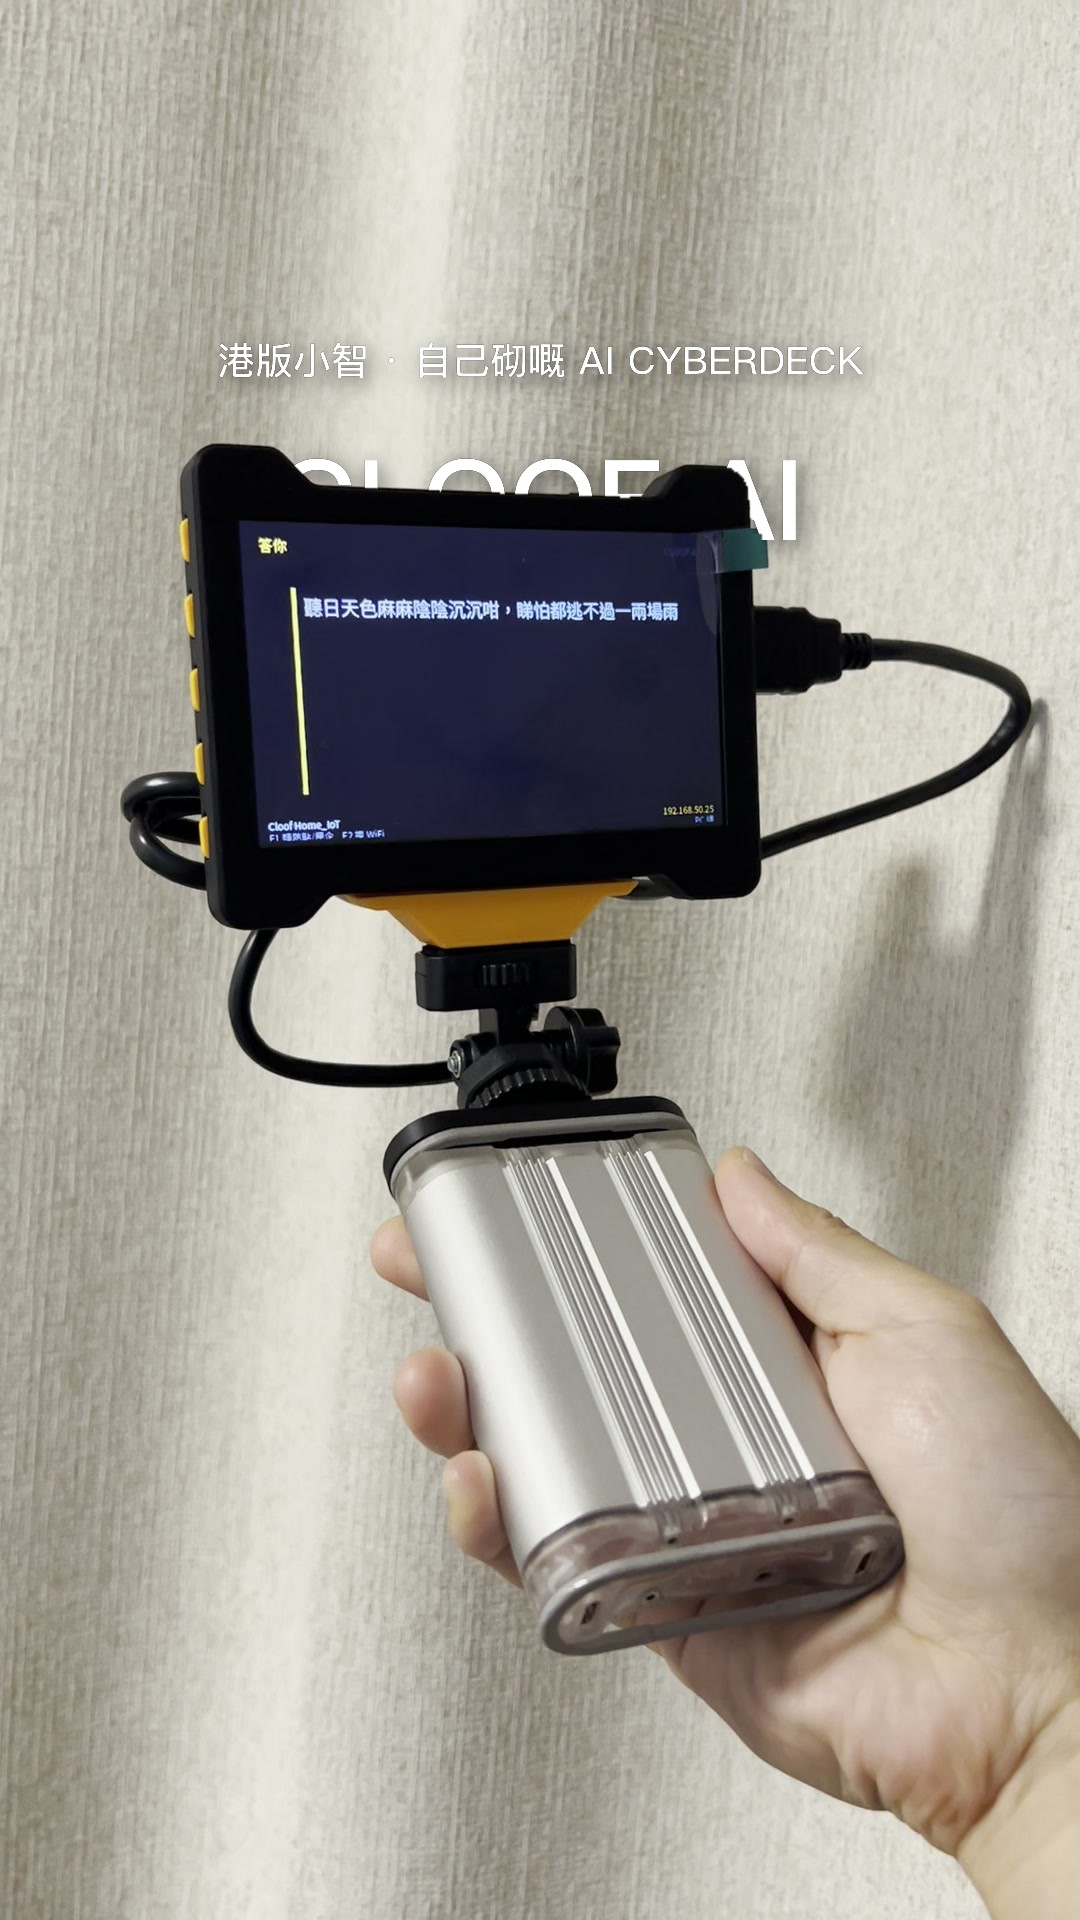
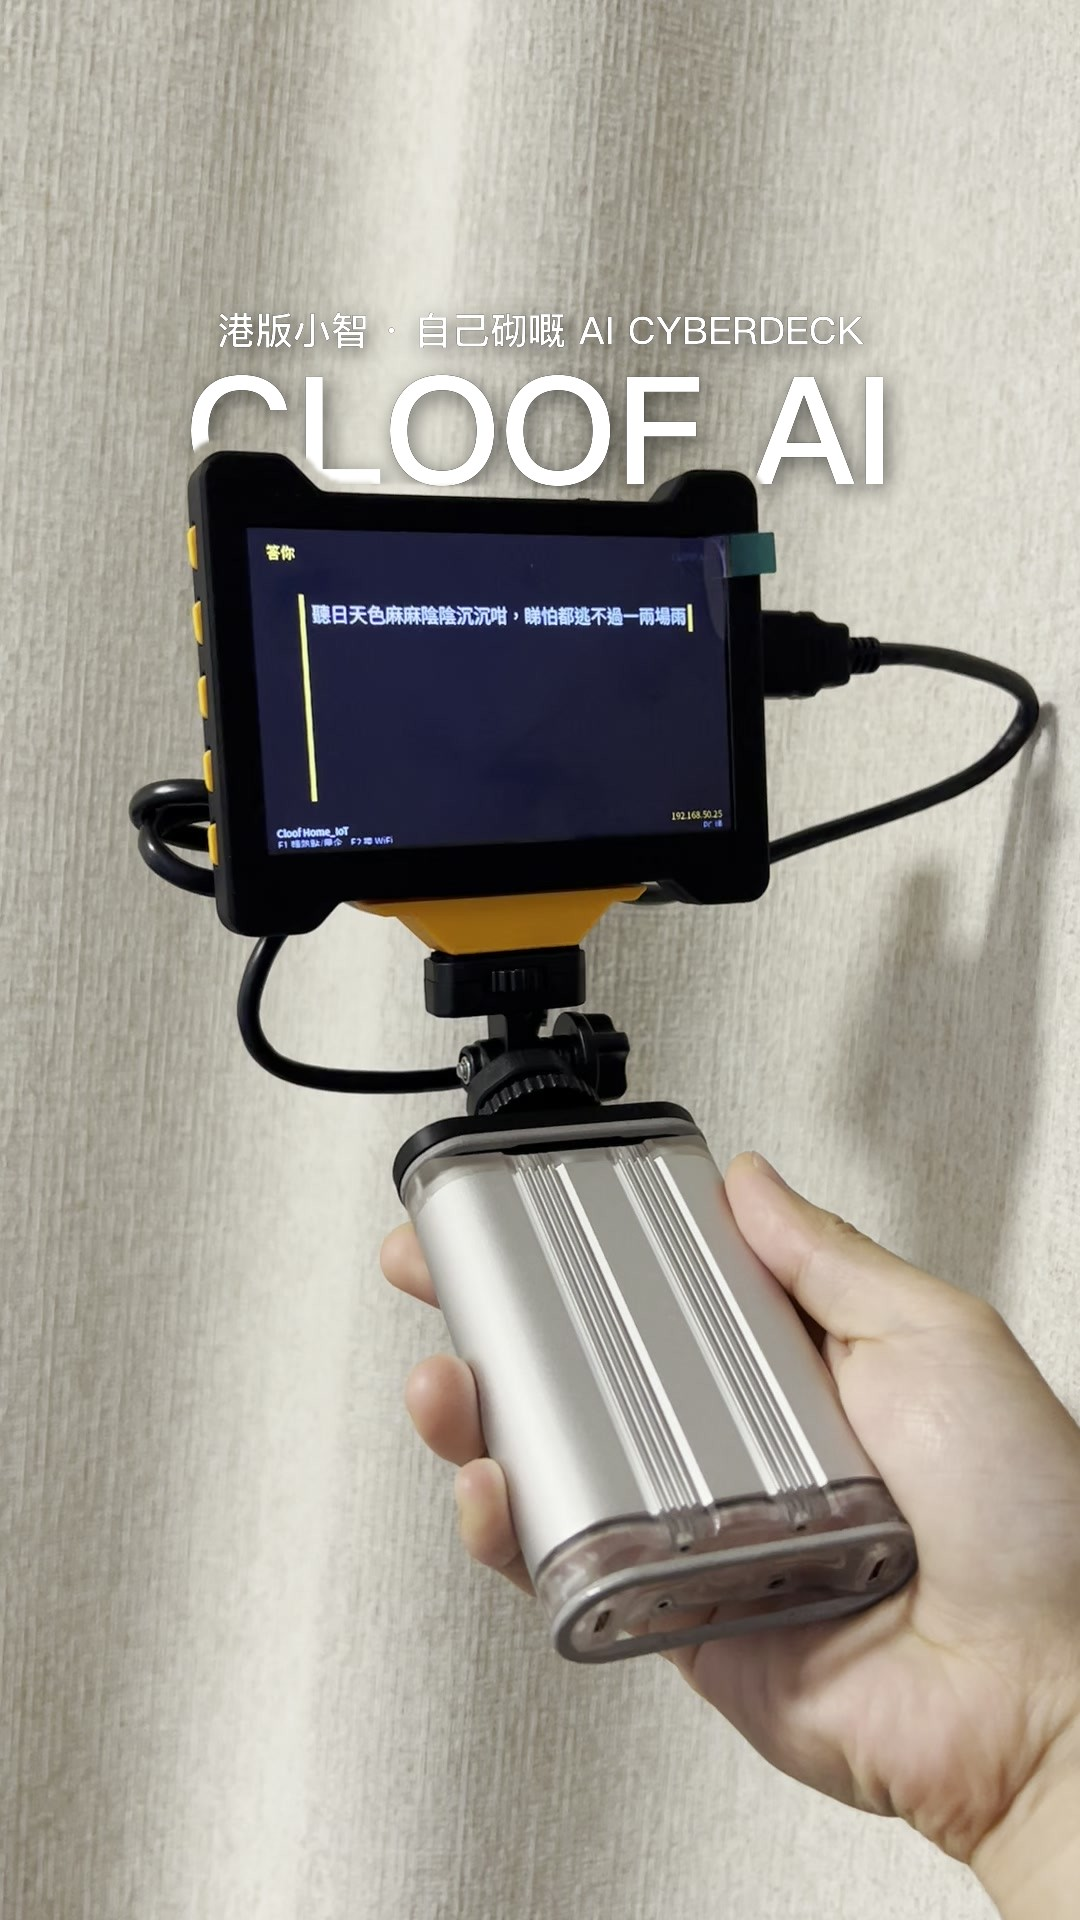
Edge refinement: mask morphology cleanup + 1.8px feather (soft alpha)
Also bigger recommended text sizes; example frames updated to the
refined render.

diff --git a/text_behind.py b/text_behind.py
@@ -3,8 +3,9 @@
 text_behind.py — put BIG modern text BEHIND the subject in a video
 (text sandwiched between background and subject, the "text behind person" reel effect).
 
-Pipeline: YOLO/SAM2 subject mask (refreshed every N frames) -> PIL text layer
-(no border, soft blurred shadow) -> composite bg -> text -> subject.
+Pipeline: SAM2 subject mask (refreshed every N frames, morphologically cleaned
+and feathered) -> PIL text layer (no border, soft blurred shadow) ->
+composite bg -> text -> subject.
 
 KEY INSIGHT for static-camera shots: you do NOT need a mask every frame.
 Refresh the mask every N frames (0.25-0.5s) and reuse it in between — the
@@ -12,8 +13,13 @@ subject barely moves relative to the frame, so this is ~10x faster and
 visually identical. Handheld shots need a smaller --every and the built-in
 EMA smoothing handles residual sway.
 
+EDGE QUALITY: the (low-res) mask is upscaled, then morphologically cleaned
+(close pinholes / open specks / drop small islands) and feathered with a
+1.8px Gaussian — the soft alpha pastes the subject back over the text with
+a clean edge instead of an aliased staircase.
+
 Requirements:
-  pip install ultralytics pillow numpy
+  pip install ultralytics pillow numpy opencv-python-headless
   ffmpeg on PATH
 
 Usage (auto-detect people with YOLO):
@@ -30,6 +36,21 @@ Static camera? use --every 8 (mask every 1/3 s). Handheld? --every 4.
 import argparse, os, subprocess, sys
 import numpy as np
 from PIL import Image, ImageDraw, ImageFilter, ImageFont
+import cv2  # opencv-python-headless: mask cleanup + feathering
+
+def refine_mask(mask_bool_small, W, H):
+    """upscale low-res mask -> close/open morphology -> drop specks -> feather."""
+    mfull = cv2.resize(mask_bool_small.astype(np.float32), (W, H),
+                       interpolation=cv2.INTER_LINEAR)
+    m8 = (mfull > 0.5).astype(np.uint8) * 255
+    k = np.ones((5, 5), np.uint8)
+    m8 = cv2.morphologyEx(m8, cv2.MORPH_CLOSE, k)
+    m8 = cv2.morphologyEx(m8, cv2.MORPH_OPEN, k)
+    num, lab, stats, _ = cv2.connectedComponentsWithStats(m8, 8)
+    for i in range(1, num):
+        if stats[i, cv2.CC_STAT_AREA] < 3000:
+            m8[lab == i] = 0
+    return Image.fromarray(cv2.GaussianBlur(m8, (0, 0), 1.8))
 
 def find_ffmpeg():
     try:
@@ -138,7 +159,7 @@ def main():
             elif prev is not None:
                 M = (0.6 * M + 0.4 * prev) > 0.4   # EMA vs flicker
             prev = m_small = M
-        mimg = Image.fromarray((m_small * 255).astype('uint8')).resize((W, H), Image.BILINEAR)
+        mimg = refine_mask(m_small, W, H)
 
         comp = frame.convert('RGBA')
         comp.alpha_composite(sh, (6, 9))

diff --git a/README.md b/README.md
@@ -32,6 +32,10 @@ source frames ──► SAM2 subject mask (YOLO or box prompts)
 3. **Composite** — text (and its shadow) go over the background, then the
    original frame is re-painted through the subject mask, so the subject covers
    the text = the "behind" illusion. No green screen, no manual rotoscoping.
+4. **Edge refinement** — the low-res mask is upscaled, then morphologically
+   cleaned (close pinholes, open specks, drop small islands) and feathered
+   with a 1.8px Gaussian: a clean soft cut edge instead of an aliased
+   staircase along the subject silhouette.
 
 ## The static-camera trick (why this is fast enough on a laptop)
 
